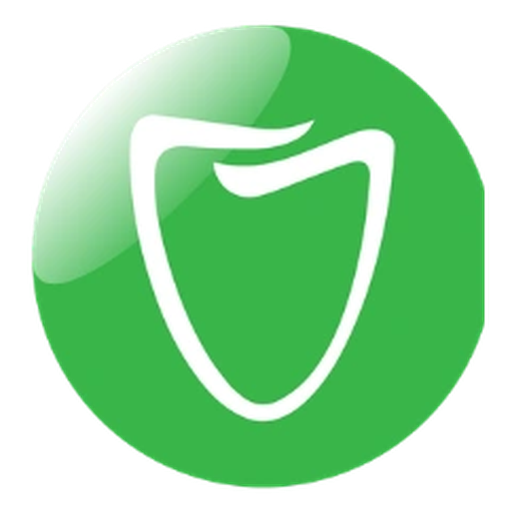
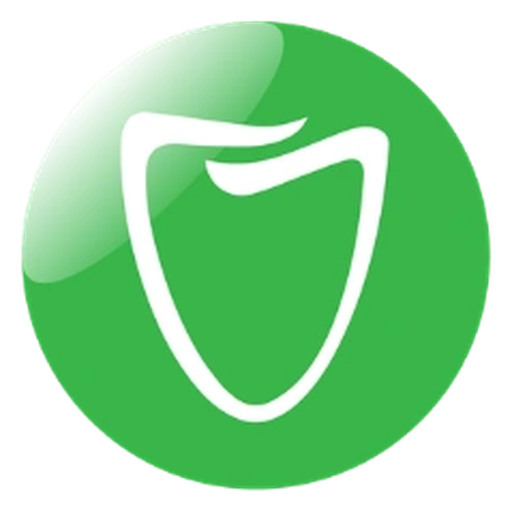
fix: apply 100% uncut perfect round symbol without right-side clipping

diff --git a/index.html b/index.html
@@ -96,7 +96,7 @@
                     <header class="profile-header">
         <!-- Floating Logo -->
         <div class="logo-container">
-          <img src="assets/images/simbolo-odc.webp?v=3" alt="Símbolo Oficial OdontoCompany" class="brand-logo" width="96" height="96" onerror="this.src='assets/images/simbolo-odc.png'">
+          <img src="assets/images/simbolo-odc.webp?v=4" alt="Símbolo Oficial OdontoCompany" class="brand-logo" width="96" height="96" onerror="this.src='assets/images/simbolo-odc.png'">
         </div>
 
         <!-- Unit Name -->

diff --git a/style.css b/style.css
@@ -137,7 +137,6 @@ body::before {
   width: 96px;
   height: 96px;
   max-width: 96px;
-  border-radius: 50%;
   object-fit: contain;
   display: block;
 }
